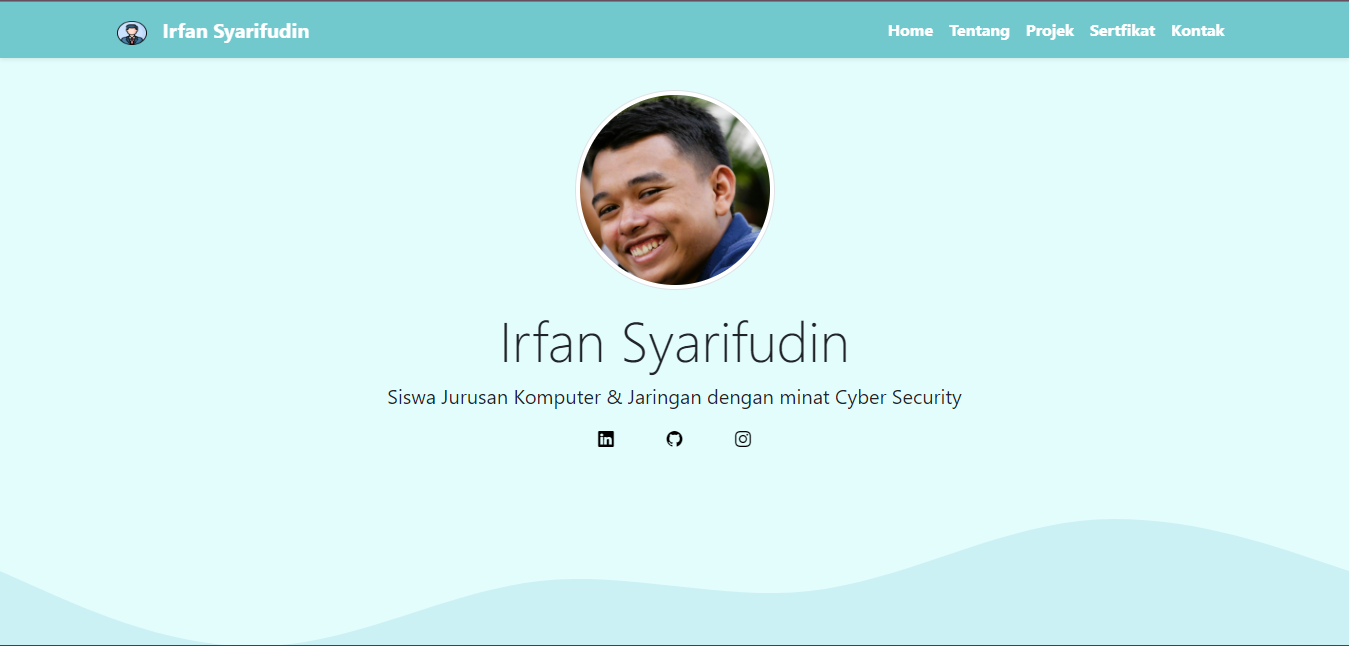
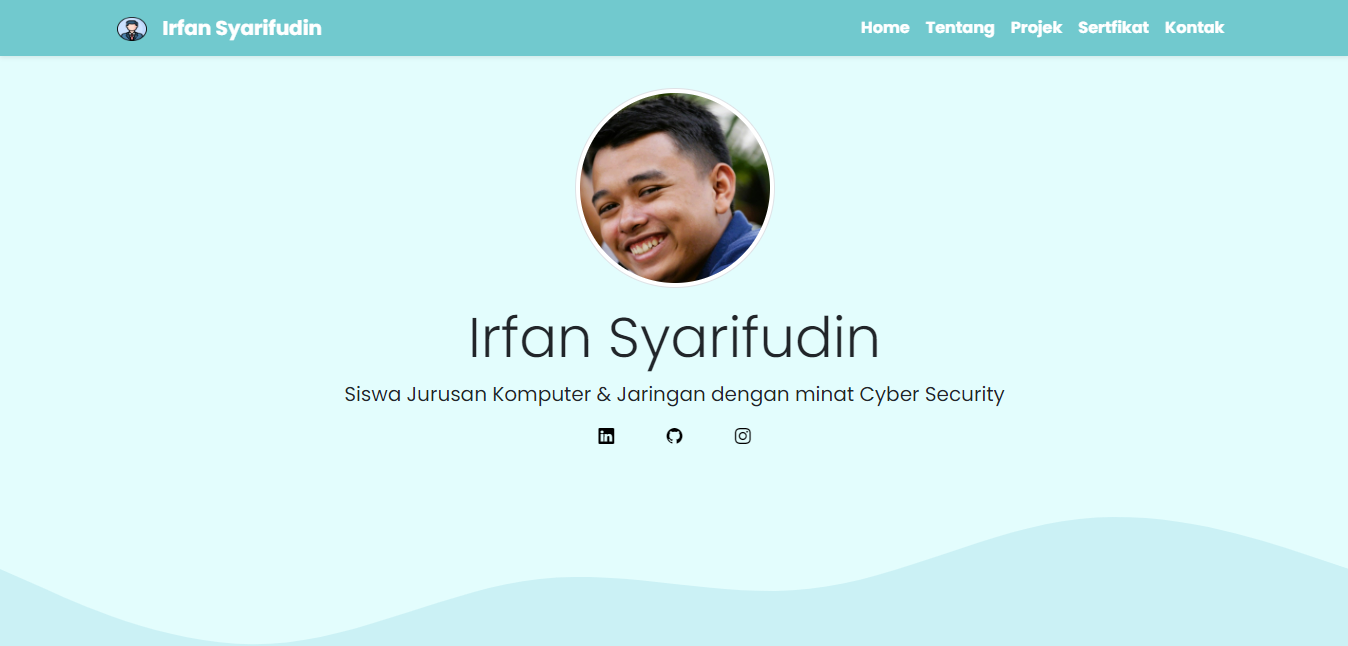
Update & Fix Bug
Change fonts, add new certificates, add meta og tags, improve SEO, fix sitemap, fix minor bugs

diff --git a/portofolio/index.html b/portofolio/index.html
@@ -1,8 +1,39 @@
 <!DOCTYPE html>
 <html lang="id">
   <head>
+    <title>Portofolio | Irfan Syarifudin</title>
+
+    <!-- Required Meta Tags -->
+    <meta charset="utf-8" />
+    <meta name="viewport" content="width=device-width, initial-scale=1" />
+
+    <!-- Google Index -->
+    <meta name="google-site-verification" content="29CnmVlPwO8uPHulbQR6KYzol5wqfKfgDzUtH2isZPk" />
+
+    <!-- Meta Tags SEO Friendly -->
+    <meta name="title" content="Portofolio | Irfan Syarifudin" />
+    <meta name="description" content="Irfan Syarifudin adalah seorang siswa jurusan Teknik Komputer & Jaringan dengan minat Cyber Security. Jelajahi proyek-proyek dan sertifikatnya." />
+    <meta name="keywords" content="Irfan Syarifudin, Website Irfan Syarifudin, Portofolio Irfan Syarifudin" />
+    <meta name="robots" content="index, follow" />
+    <meta http-equiv="Content-Type" content="text/html; charset=utf-8" />
+    <meta name="author" content="Irfan Syarifudin" />
+
+    <!-- Open Graph / Facebook -->
+    <meta property="og:type" content="website" />
+    <meta property="og:url" content="https://metatags.io/" />
+    <meta property="og:title" content="Portofolio | Irfan Syarifudin" />
+    <meta property="og:description" content="Irfan Syarifudin adalah seorang siswa jurusan Teknik Komputer & Jaringan dengan minat Cyber Security. Jelajahi proyek-proyek dan sertifikatnya." />
+    <meta property="og:image" content="https://metatags.io/images/meta-tags.png" />
+
+    <!-- Twitter -->
+    <meta property="twitter:card" content="summary_large_image" />
+    <meta property="twitter:url" content="https://metatags.io/" />
+    <meta property="twitter:title" content="Portofolio | Irfan Syarifudin" />
+    <meta property="twitter:description" content="Irfan Syarifudin adalah seorang siswa jurusan Teknik Komputer & Jaringan dengan minat Cyber Security. Jelajahi proyek-proyek dan sertifikatnya." />
+    <meta property="twitter:image" content="https://metatags.io/images/meta-tags.png" />
+
     <!-- Google Analytics -->
-    <!-- Google tag (gtag.js) -->
+    <!-- Google Tag (gtag.js) -->
     <script async src="https://www.googletagmanager.com/gtag/js?id=G-Z6VZWT34PR"></script>
     <script>
       window.dataLayer = window.dataLayer || [];
@@ -14,19 +45,10 @@
       gtag("config", "G-Z6VZWT34PR");
     </script>
 
-    <!-- Required meta tags -->
-    <meta charset="utf-8" />
-    <meta name="viewport" content="width=device-width, initial-scale=1" />
-
-    <!-- Google Index -->
-    <meta name="google-site-verification" content="29CnmVlPwO8uPHulbQR6KYzol5wqfKfgDzUtH2isZPk" />
-
-    <!-- SEO Friendly -->
-    <meta name="title" content="Portofolio Irfan Syarifudin" />
-    <meta name="description" content="Irfan Syarifudin adalah seorang siswa jurusan Teknik Komputer & Jaringan dengan minat Cyber Security. Jelajahi proyek-proyek dan sertifikatnya." />
-    <meta name="keywords" content="Irfan Syarifudin, Irfan, Syarifudin" />
-    <meta name="robots" content="index, follow" />
-    <meta http-equiv="Content-Type" content="text/html; charset=utf-8" />
+    <!-- Google Font -->
+    <link rel="preconnect" href="https://fonts.googleapis.com" />
+    <link rel="preconnect" href="https://fonts.gstatic.com" crossorigin />
+    <link href="https://fonts.googleapis.com/css2?family=Poppins:ital,wght@0,100;0,200;0,300;0,400;0,500;0,600;0,700;0,800;0,900;1,100;1,200;1,300;1,400;1,500;1,600;1,700;1,800;1,900&display=swap" rel="stylesheet" />
 
     <!-- Icon -->
     <link rel="shortcut icon" type="image/x-icon" href="/assets/img/favicon.ico" />
@@ -43,13 +65,8 @@
     <!-- AOS -->
     <link href="https://unpkg.com/aos@2.3.1/dist/aos.css" rel="stylesheet" />
 
-    <!-- W3 CSS Framework -->
-    <!-- <link rel="stylesheet" href="https://www.w3schools.com/w3css/4/w3.css" /> -->
-
     <!-- CSS -->
     <link rel="stylesheet" type="text/css" href="/css/style.css" />
-
-    <title>Portofolio | Irfan Syarifudin</title>
   </head>
   <body>
     <!-- Navbar start -->
@@ -192,7 +209,7 @@
               <img src="assets/img/projek-cms-irfango.png" class="card-img-top" alt="website irfango" />
               <div class="card-body">
                 <h5 class="card-title">Website E-commerce</h5>
-                <p class="card-text">Website ini adalah website e-commerce yang dibuat menggunakan CMS WIX</p>
+                <p class="card-text">Website e-commerce yang dibuat menggunakan CMS WIX</p>
                 <a href="https://bit.ly/irfango1" class="btn btn-primary" target="_blank">Kunjungi</a>
               </div>
             </div>
@@ -282,7 +299,7 @@
             <div class="card" data-aos="fade-up" data-aos-duration="900" data-aos-delay="200">
               <img src="assets/img/EHE.png" class="card-img-top" alt="Sertifikat EHE" height="200" />
               <div class="card-body">
-                <h5 class="card-title">Sertifikat Ethical Hacking Essentials</h5>
+                <h5 class="card-title">Sertifikat EHE</h5>
                 <p class="card-text">Sertifikat EHE dari ec-council</p>
                 <a href="https://codered.eccouncil.org/certificate/25137411-4e91-46f4-a982-39e8e671e722?logged=true" class="btn btn-primary" target="_blank">Kunjungi</a>
               </div>
@@ -313,7 +330,7 @@
               <img src="assets/img/Certificate-of-Completion-Introduction-to-Information-Security.png" class="card-img-top" alt="sertifikat Cyber Academy" />
               <div class="card-body">
                 <h5 class="card-title">Sertifikat Information Security</h5>
-                <p class="card-text">Sertifikat dari Cyber Academy.</p>
+                <p class="card-text">Sertifikat Information Security dari Cyber Academy.</p>
                 <a href="https://www.cyberacademy.id/certificate/PKMI01101240129" class="btn btn-primary" target="_blank">Kunjungi</a>
               </div>
             </div>
@@ -325,6 +342,16 @@
                 <h5 class="card-title">Sertifikat Classical Cryptography</h5>
                 <p class="card-text">Sertifikat dari Cyber Academy.</p>
                 <a href="https://www.cyberacademy.id/certificate/CCFB01101240135" class="btn btn-primary" target="_blank">Kunjungi</a>
+              </div>
+            </div>
+          </div>
+          <div class="col-md-4 mb-3">
+            <div class="card" data-aos="fade-up" data-aos-duration="900" data-aos-delay="200">
+              <img src="assets/img/Network Fundamental.png" class="card-img-top size-gambar" alt="Sertifikat Linux" />
+              <div class="card-body">
+                <h5 class="card-title">Sertfikat Network Fundamental</h5>
+                <p class="card-text">Sertifikat Network Fundamental dari Aguna Course</p>
+                <a href="https://drive.google.com/file/d/1YtDiFYIe69KB8K50kBN8bG7gsqd8W6nV/view?usp=drive_link" class="btn btn-primary" target="_blank">Kunjungi</a>
               </div>
             </div>
           </div>
@@ -348,7 +375,7 @@
       <div class="container">
         <div class="row text-center mb-4">
           <div class="col" data-aos="fade-up" data-aos-duration="900" data-aos-delay="250" data-aos-offset="150">
-            <h2>Kontak Saya</h2>
+            <h3>Kontak Saya</h3>
           </div>
         </div>
         <div class="row justify-content-center" data-aos="fade-up" data-aos-duration="900" data-aos-delay="250" data-aos-offset="150">

diff --git a/portofolio/css/style.css b/portofolio/css/style.css
@@ -1,3 +1,7 @@
+* {
+  font-family: "Poppins", sans-serif;
+}
+
 body {
   background-color: #e3fdfd;
   /* font-weight: 400; */
